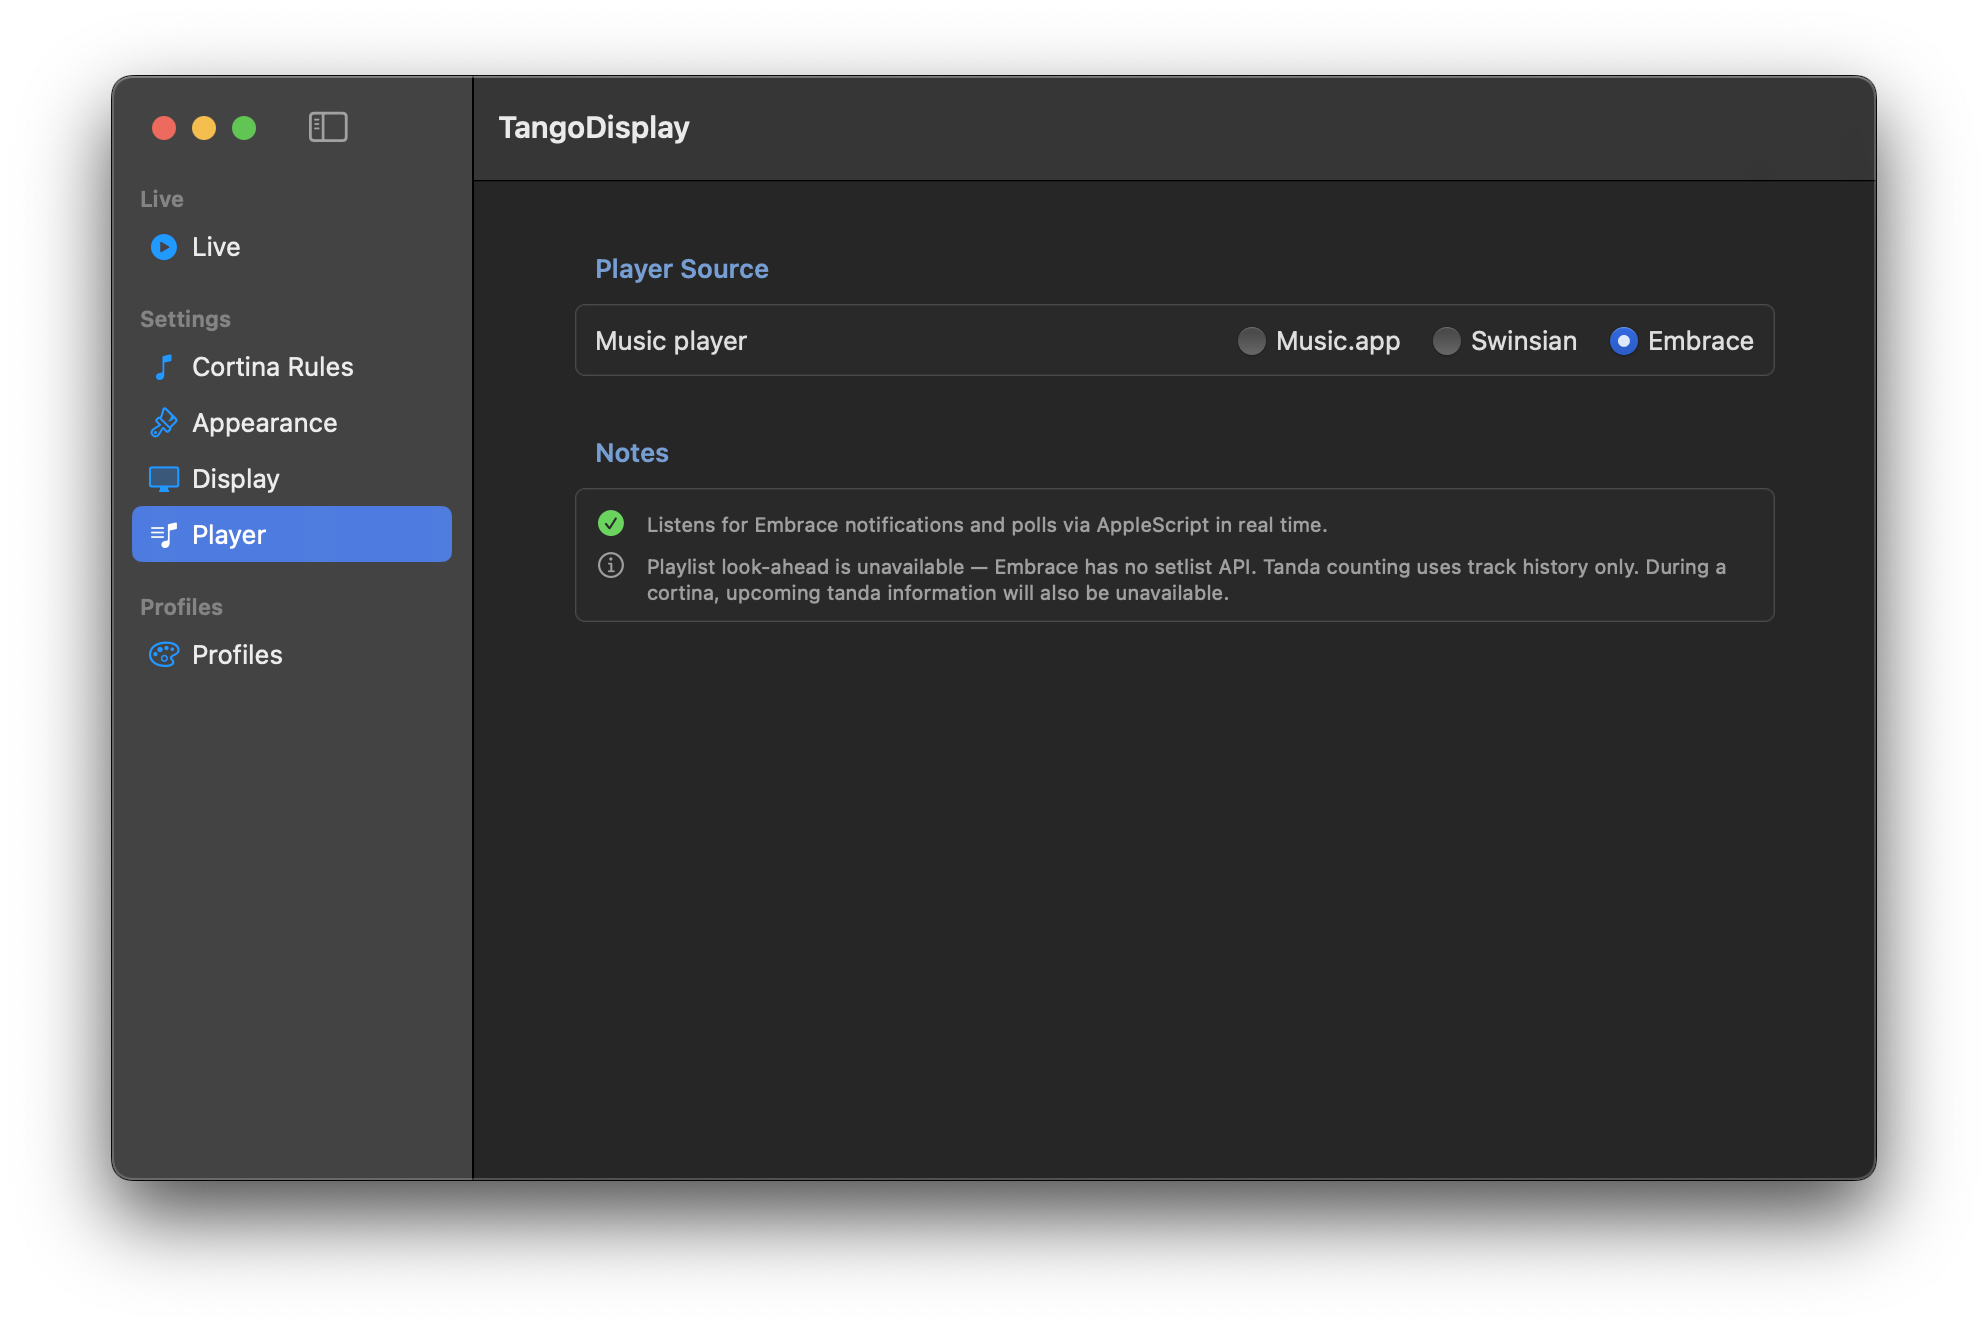
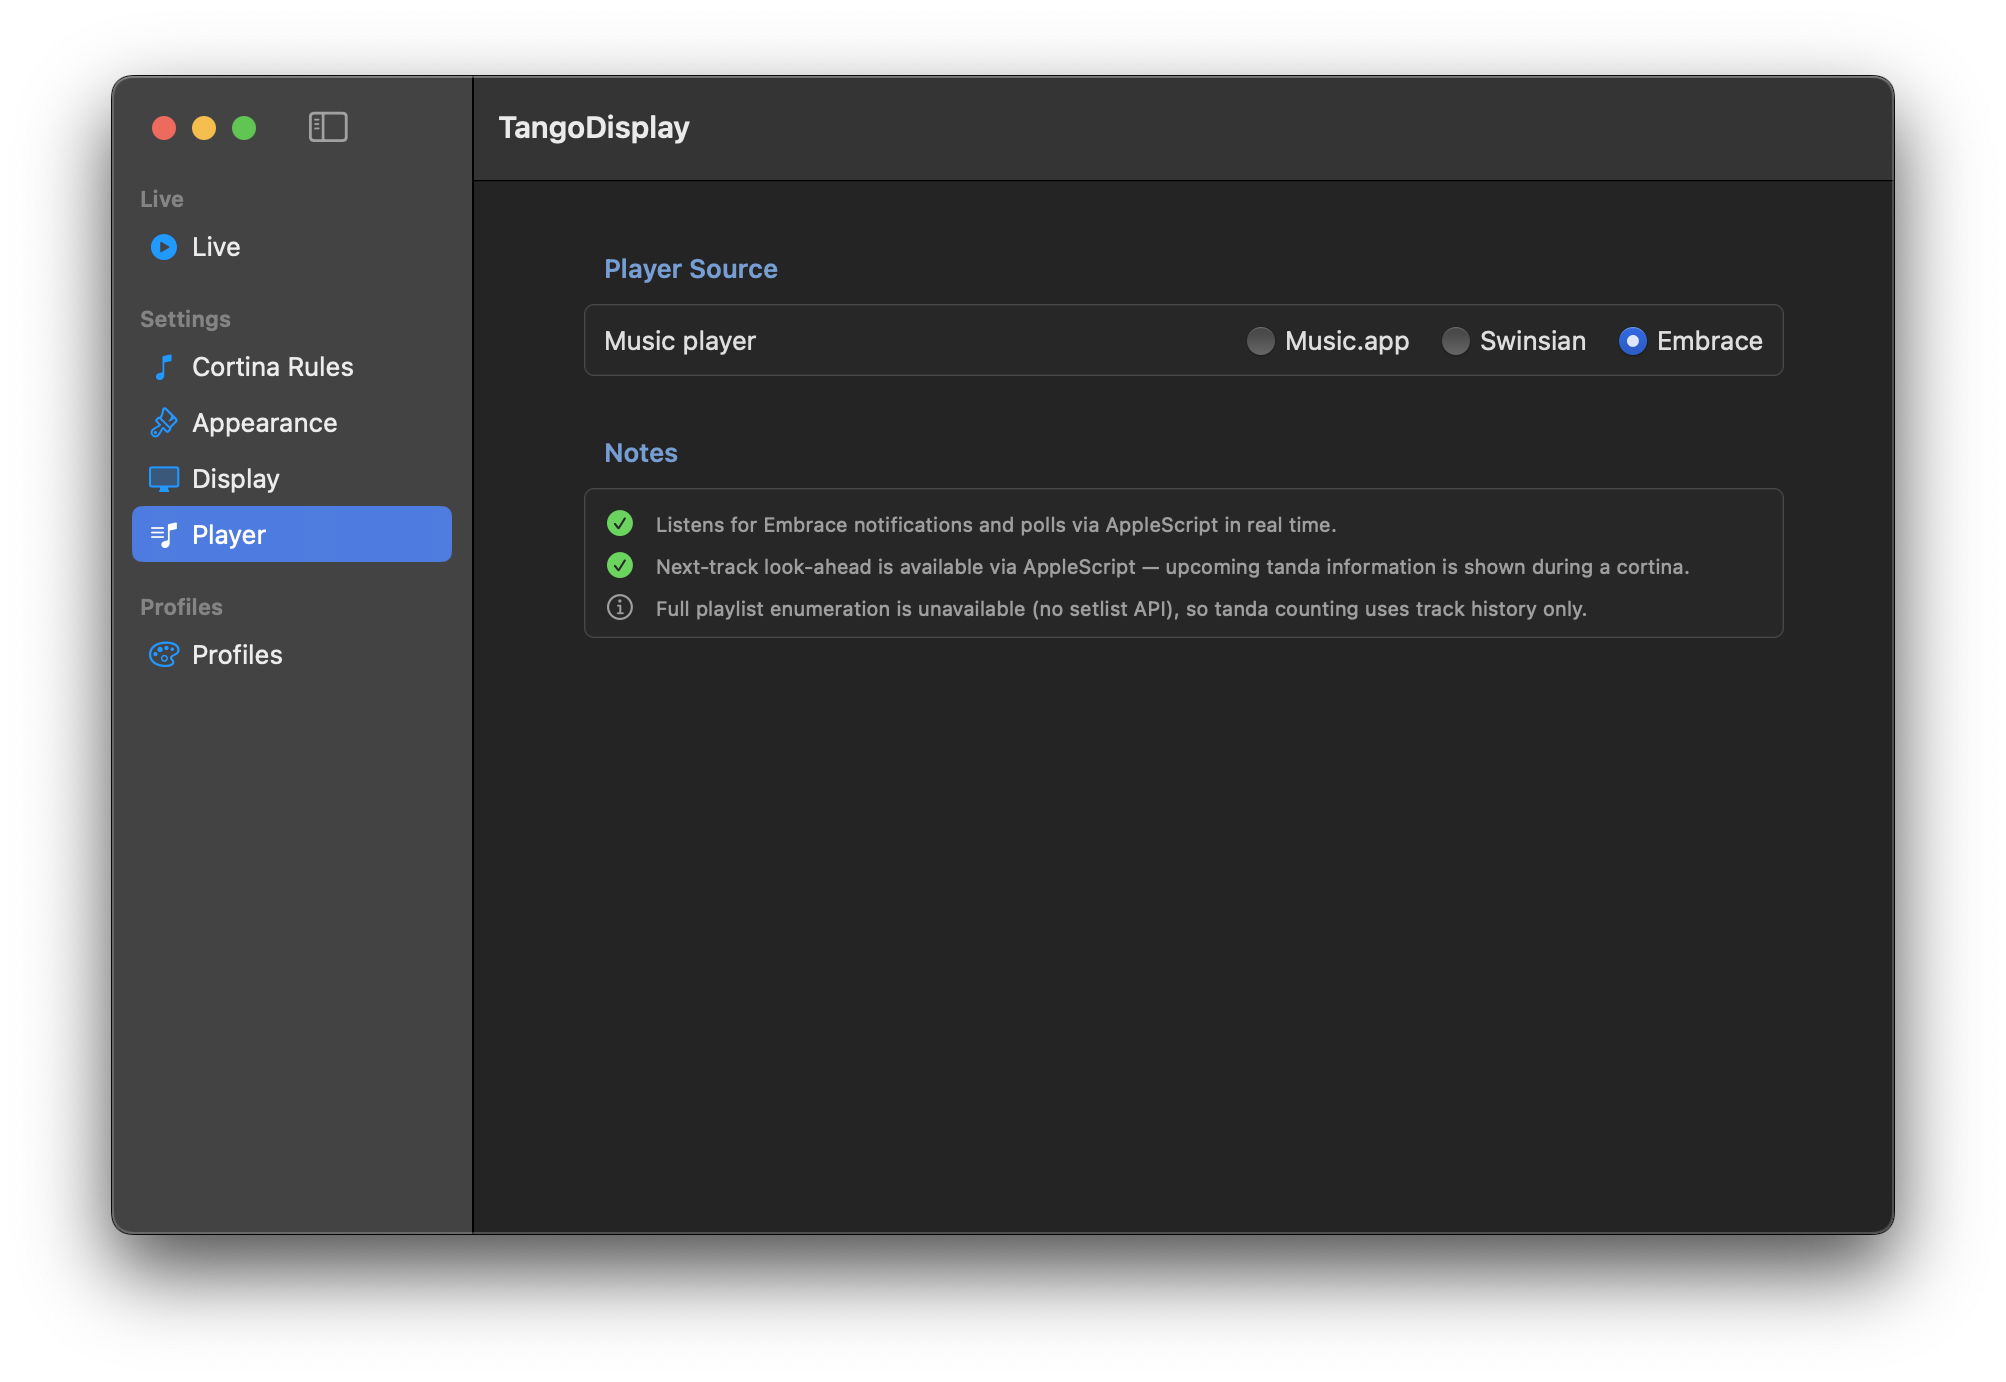
Bump version to 1.4.0; add Embrace next-track look-ahead and cortina preview
Embrace now fetches the next track via AppleScript (9-field output) and fires
onNextTrackUpdate before onTrackUpdate so AppState can use lastKnownNextTrack
during cortina transitions. The "Coming Up" upcoming tanda preview is now
shown for Embrace, matching Music.app behaviour. Full playlist enumeration
remains unavailable (no setlist API); tanda counting still uses history.

Also updates PlayerSettingsView notes, README feature list and changelog,
Install.sh version (1.3.1 → 1.4.0 / build 8 → 9), and player-source screenshot.

diff --git a/Sources/TangoDisplay/Services/EmbracMonitor.swift b/Sources/TangoDisplay/Services/EmbracMonitor.swift
@@ -34,20 +34,23 @@ final class EmbracMonitor {
 
     var onTrackUpdate: ((Track?, PlayerState) -> Void)?
     var onPlaylistUpdate: ((tracks: [Track], currentIndex: Int)?) -> Void = { _ in }
+    var onNextTrackUpdate: ((Track?) -> Void)?
     var onWatchdogChanged: ((Bool) -> Void)?
 
     // MARK: - AppleScript source
 
-    /// Returns five newline-delimited fields: state, title, artist, genre, id.
-    /// Uses current index + track N lookup (Embrace uses 1-based indexing; 0 = no track loaded).
-    /// Uses `player state as string` because Embrace's dictionary does not export `paused`
-    /// as a named constant — comparing `player state is paused` throws -2753 at runtime.
+    /// Returns nine newline-delimited fields: state, title, artist, genre, id,
+    /// nextTitle, nextArtist, nextGenre, nextID. Next-track fields are empty strings
+    /// when there is no following track. Uses current index + track N lookup (Embrace
+    /// uses 1-based indexing; 0 = no track loaded). Uses `player state as string`
+    /// because Embrace's dictionary does not export `paused` as a named constant —
+    /// comparing `player state is paused` throws -2753 at runtime.
     private static let trackScript = """
         tell application "Embrace"
             try
                 set idx to current index
                 if idx is 0 then
-                    return "stopped" & linefeed & "" & linefeed & "" & linefeed & "" & linefeed & ""
+                    return "stopped" & linefeed & "" & linefeed & "" & linefeed & "" & linefeed & "" & linefeed & "" & linefeed & "" & linefeed & "" & linefeed & ""
                 end if
                 set t to track idx
                 set theTitle to title of t
@@ -58,11 +61,27 @@ final class EmbracMonitor {
                 set theID to id of t
                 set stateStr to player state as string
                 if stateStr is "stopped" then
-                    return "stopped" & linefeed & "" & linefeed & "" & linefeed & "" & linefeed & ""
+                    return "stopped" & linefeed & "" & linefeed & "" & linefeed & "" & linefeed & "" & linefeed & "" & linefeed & "" & linefeed & "" & linefeed & ""
                 end if
-                return stateStr & linefeed & theTitle & linefeed & theArtist & linefeed & theGenre & linefeed & theID
+                set totalTracks to count of tracks
+                set nextTitle to ""
+                set nextArtist to ""
+                set nextGenre to ""
+                set nextID to ""
+                if idx < totalTracks then
+                    try
+                        set nt to track (idx + 1)
+                        set nextTitle to title of nt
+                        set nextArtist to artist of nt
+                        if nextArtist is missing value then set nextArtist to ""
+                        set nextGenre to genre of nt
+                        if nextGenre is missing value then set nextGenre to ""
+                        set nextID to id of nt
+                    end try
+                end if
+                return stateStr & linefeed & theTitle & linefeed & theArtist & linefeed & theGenre & linefeed & theID & linefeed & nextTitle & linefeed & nextArtist & linefeed & nextGenre & linefeed & nextID
             on error
-                return "stopped" & linefeed & "" & linefeed & "" & linefeed & "" & linefeed & ""
+                return "stopped" & linefeed & "" & linefeed & "" & linefeed & "" & linefeed & "" & linefeed & "" & linefeed & "" & linefeed & "" & linefeed & ""
             end try
         end tell
         """
@@ -120,11 +139,15 @@ final class EmbracMonitor {
             handleSuccess()
             let result = parseOutput(output)
             DispatchQueue.main.async { [weak self] in
-                self?.onTrackUpdate?(result.0, result.1)
+                // Fire next-track first so AppState.lastKnownNextTrack is set
+                // before handleCortinaTrack reads it via onTrackUpdate.
+                self?.onNextTrackUpdate?(result.1)
+                self?.onTrackUpdate?(result.0, result.2)
             }
         } else {
             handleFailure()
             DispatchQueue.main.async { [weak self] in
+                self?.onNextTrackUpdate?(nil)
                 self?.onTrackUpdate?(nil, .stopped)
             }
         }
@@ -168,24 +191,36 @@ final class EmbracMonitor {
 
     // MARK: - Output parsing
 
-    /// Parses five newline-delimited fields: state, title, artist, genre, id.
-    private func parseOutput(_ output: String) -> (Track?, PlayerState) {
+    /// Parses nine newline-delimited fields: state, title, artist, genre, id,
+    /// nextTitle, nextArtist, nextGenre, nextID.
+    /// Returns (currentTrack, nextTrack, playerState).
+    private func parseOutput(_ output: String) -> (Track?, Track?, PlayerState) {
         // osascript appends a trailing newline; split keeping empty strings to preserve indices
         let lines = output.components(separatedBy: "\n")
 
         let stateRaw = lines.count > 0 ? lines[0].trimmingCharacters(in: .whitespaces) : "stopped"
         let state    = PlayerState(rawValue: stateRaw) ?? .stopped
 
-        guard state != .stopped else { return (nil, .stopped) }
+        guard state != .stopped else { return (nil, nil, .stopped) }
 
         let title  = lines.count > 1 ? lines[1] : ""
         let artist = lines.count > 2 ? lines[2] : ""
         let genre  = lines.count > 3 ? lines[3] : ""
         let pid    = lines.count > 4 ? lines[4].trimmingCharacters(in: .whitespaces) : ""
 
-        guard !pid.isEmpty || !title.isEmpty else { return (nil, .stopped) }
+        guard !pid.isEmpty || !title.isEmpty else { return (nil, nil, .stopped) }
 
-        return (Track(title: title, artist: artist, genre: genre, persistentID: pid), state)
+        let currentTrack = Track(title: title, artist: artist, genre: genre, persistentID: pid)
+
+        let nextTitle  = lines.count > 5 ? lines[5] : ""
+        let nextArtist = lines.count > 6 ? lines[6] : ""
+        let nextGenre  = lines.count > 7 ? lines[7] : ""
+        let nextID     = lines.count > 8 ? lines[8].trimmingCharacters(in: .whitespaces) : ""
+
+        let nextTrack: Track? = nextID.isEmpty && nextTitle.isEmpty ? nil :
+            Track(title: nextTitle, artist: nextArtist, genre: nextGenre, persistentID: nextID)
+
+        return (currentTrack, nextTrack, state)
     }
 
     // MARK: - Watchdog

diff --git a/Sources/TangoDisplay/State/AppState.swift b/Sources/TangoDisplay/State/AppState.swift
@@ -35,6 +35,7 @@ final class AppState: ObservableObject {
     private var trackHistory: [Track] = []           // cleared on each cortina/idle
     private var playlistTracks: [Track]? = nil       // last known playlist; nil = unavailable
     private var playlistCurrentIndex: Int = 0        // 0-based
+    private var lastKnownNextTrack: Track? = nil     // from onNextTrackUpdate; used for Embrace cortina look-ahead
     private var lastSeenPersistentID: String = ""
     @Published private(set) var currentPlayerState: PlayerState = .stopped
     private var isPausedByUser = false               // ⌘⇧P toggle
@@ -85,6 +86,17 @@ final class AppState: ObservableObject {
         source.onPlaylistUpdate = { [weak self] context in
             self?.handlePlaylistUpdate(context)
         }
+        source.onNextTrackUpdate = { [weak self] nextTrack in
+            guard let self else { return }
+            self.lastKnownNextTrack = nextTrack
+            if self.displayState.mode == .cortina {
+                let detector = self.settings.makeDetector()
+                let validNext = nextTrack.flatMap { detector.isCortina(genre: $0.genre) ? nil : $0 }
+                if self.displayState.nextTrack != validNext {
+                    self.displayState.nextTrack = validNext
+                }
+            }
+        }
         source.onWatchdogChanged = { [weak self] active in
             self?.watchdogActive = active
             let name = self?.settings.selectedPlayer.displayName ?? "Player"
@@ -121,6 +133,7 @@ final class AppState: ObservableObject {
         isPausedByUser = false
         pendingStateBeforePause = nil
         watchdogActive = false
+        lastKnownNextTrack = nil
         displayState = DisplayState()
     }
 
@@ -204,8 +217,11 @@ final class AppState: ObservableObject {
         // handlePlaylistUpdate will update or clear nextTrack when the result arrives.
         activeSource.triggerPlaylistFetch()
 
-        // Find the next non-cortina track (first track of next tanda) from playlist
+        // Find the next non-cortina track (first track of next tanda).
+        // For Music.app this uses the full playlist; for Embrace it falls back to
+        // lastKnownNextTrack (already set by onNextTrackUpdate before this runs).
         let nextTrack = findNextDanceTrack(after: playlistCurrentIndex, detector: detector)
+            ?? lastKnownNextTrack.flatMap { detector.isCortina(genre: $0.genre) ? nil : $0 }
         trackHistory.removeAll()
         displayState = DisplayState(
             mode: .cortina,

diff --git a/Sources/TangoDisplay/Views/Control/PlayerSettingsView.swift b/Sources/TangoDisplay/Views/Control/PlayerSettingsView.swift
@@ -73,7 +73,15 @@ struct PlayerSettingsView: View {
                         .foregroundColor(.green)
                 }
                 Label {
-                    Text("Playlist look-ahead is unavailable — Embrace has no setlist API. Tanda counting uses track history only. During a cortina, upcoming tanda information will also be unavailable.")
+                    Text("Next-track look-ahead is available via AppleScript — upcoming tanda information is shown during a cortina.")
+                        .font(.caption)
+                        .foregroundColor(.secondary)
+                } icon: {
+                    Image(systemName: "checkmark.circle.fill")
+                        .foregroundColor(.green)
+                }
+                Label {
+                    Text("Full playlist enumeration is unavailable (no setlist API), so tanda counting uses track history only.")
                         .font(.caption)
                         .foregroundColor(.secondary)
                 } icon: {

diff --git a/Sources/TangoDisplay/Services/MusicPlayerSource.swift b/Sources/TangoDisplay/Services/MusicPlayerSource.swift
@@ -26,6 +26,9 @@ enum MusicPlayerChoice: String, CaseIterable, Identifiable {
 protocol MusicPlayerSource: AnyObject {
     var onTrackUpdate: ((Track?, PlayerState) -> Void)? { get set }
     var onPlaylistUpdate: ((tracks: [Track], currentIndex: Int)?) -> Void { get set }
+    /// Delivers the track immediately following the current one, or nil when unavailable.
+    /// Fired before onTrackUpdate each poll so callers can use it during cortina transitions.
+    var onNextTrackUpdate: ((Track?) -> Void)? { get set }
     var onWatchdogChanged: ((Bool) -> Void)? { get set }
     func start()
     func stop()

diff --git a/Sources/TangoDisplay/Services/MusicPoller.swift b/Sources/TangoDisplay/Services/MusicPoller.swift
@@ -33,6 +33,7 @@ final class MusicPoller {
 
     var onTrackUpdate: ((Track?, PlayerState) -> Void)?
     var onPlaylistUpdate: ((tracks: [Track], currentIndex: Int)?) -> Void = { _ in }
+    var onNextTrackUpdate: ((Track?) -> Void)? = nil
     var onWatchdogChanged: ((Bool) -> Void)?
 
     // MARK: - Lifecycle

diff --git a/Sources/TangoDisplay/Services/SwinsianMonitor.swift b/Sources/TangoDisplay/Services/SwinsianMonitor.swift
@@ -19,6 +19,7 @@ final class SwinsianMonitor {
 
     var onTrackUpdate: ((Track?, PlayerState) -> Void)?
     var onPlaylistUpdate: ((tracks: [Track], currentIndex: Int)?) -> Void = { _ in }
+    var onNextTrackUpdate: ((Track?) -> Void)? = nil
     var onWatchdogChanged: ((Bool) -> Void)?
 
     private var observers: [AnyObject] = []

diff --git a/README.md b/README.md
@@ -19,7 +19,7 @@ A native macOS menu-bar app that shows a clean, fullscreen dancer display on an 
 - **Mirror mode** — live preview of the presentation window in the control window
 - **Display labels** — customisable "CORTINA", "COMING UP", and idle message text
 - **Idle message** — optional text shown when nothing is playing
-- **Player Source** — choose Music.app (default, full playlist lookahead and tanda counting), Swinsian, or Embrace (both use real-time notifications; playlist lookahead and "Coming Up" during cortinas are unavailable — tanda counting falls back to track history)
+- **Player Source** — choose Music.app (default, full playlist lookahead and tanda counting), Swinsian (real-time notifications; no lookahead — tanda counting from history), or Embrace (real-time notifications + next-track lookahead via AppleScript; "Coming Up" preview during cortinas is supported)
 
 ---
 
@@ -40,7 +40,7 @@ A native macOS menu-bar app that shows a clean, fullscreen dancer display on an 
 ### Option A — Download pre-built app (easiest)
 
 1. Go to the [Releases](https://github.com/richardsladetdj-creator/TangoDisplay/releases) page
-2. Download `TangoDisplay-v1.3.1.zip`
+2. Download `TangoDisplay-v1.4.0.zip`
 3. Unzip and drag `TangoDisplay.app` to your `/Applications` folder
 4. **Right-click › Open** on first launch (required because the app is ad-hoc signed, not notarised)
 5. Grant the permissions macOS requests (see [Permissions](#permissions) below)
@@ -126,6 +126,9 @@ Key design decisions:
 ---
 
 ## Changelog
+
+### v1.4.0
+- **New (Embrace):** Embrace now supports next-track look-ahead via AppleScript — the "Coming Up" upcoming tanda preview is shown during cortinas, matching Music.app behaviour. Full playlist enumeration is still unavailable (no setlist API), so tanda counting continues to use track history.
 
 ### v1.3.1
 - **Reliability:** Music.app now subscribes to the `com.apple.Music.playerInfo` DistributedNotification, triggering an immediate poll on every track and state change — mirroring how Embrace support works. This eliminates detection delays that could occur when the watchdog had backed off the polling interval due to transient AppleScript failures. The 2-second fallback polling and watchdog backoff are unchanged.